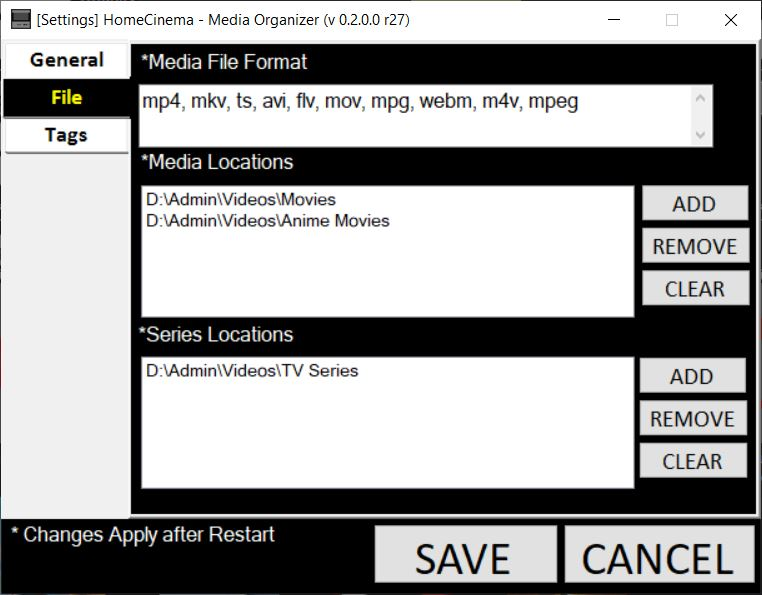
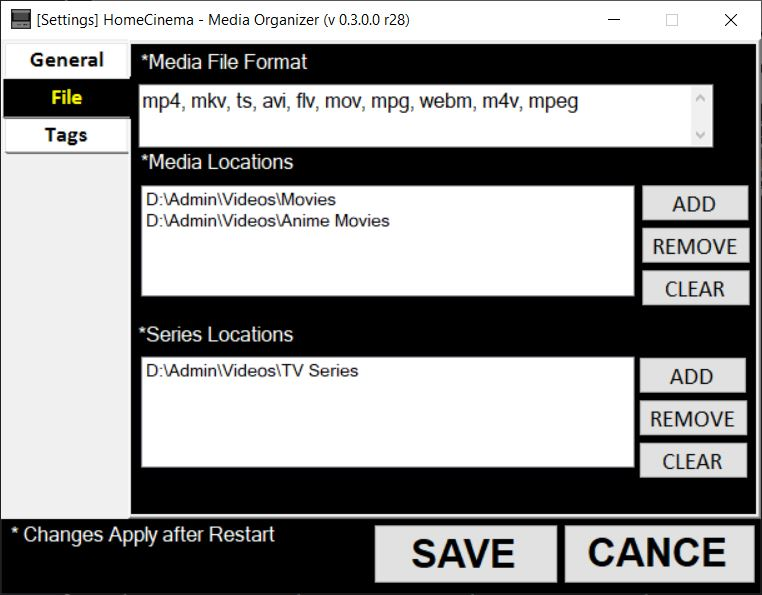
Updated to version 0.3

diff --git a/HomeCinema/Func/GlobalVars.cs b/HomeCinema/Func/GlobalVars.cs
@@ -42,7 +42,7 @@ namespace HomeCinema.Global
         // Variables ############################################################################################################
         public static string HOMECINEMA_NAME = Assembly.GetExecutingAssembly().GetCustomAttribute<AssemblyTitleAttribute>().Title;
         public static string HOMECINEMA_VERSION = Assembly.GetExecutingAssembly().GetName().Version.ToString();
-        public static int HOMECINEMA_BUILD = 27;
+        public static int HOMECINEMA_BUILD = 28;
 
         public static string SEARCHBOX_PLACEHOLDER = "Type your Search query here...";
 

diff --git a/HomeCinema/Properties/AssemblyInfo.cs b/HomeCinema/Properties/AssemblyInfo.cs
@@ -33,5 +33,5 @@ using System.Runtime.InteropServices;
 // You can specify all the values or you can default the Build and Revision Numbers
 // by using the '*' as shown below:
 // [assembly: AssemblyVersion("1.0.*")]
-[assembly: AssemblyVersion("0.2.0.0")]
-[assembly: AssemblyFileVersion("0.2.0.0")]
+[assembly: AssemblyVersion("0.3.0.0")]
+[assembly: AssemblyFileVersion("0.3.0.0")]

diff --git a/README.md b/README.md
@@ -2,12 +2,12 @@
 
 <img src="/data/v0.1.jpg"></img>
 
-**version:**	0.2.0.0 <br>
-**build:**		27
+**version:**	0.3.0.0 <br>
+**build:**		28
 
 ## Downloads
 
-**Windows 64 bit [Compressed ZIP]**: [Click to Download latest version](https://github.com/JerloPH/HomeCinema/releases/download/v0.2.0.0/HomeCinema-Windows.zip "Download, Extract and Open 'HomeCinema' Executable file") <br>
+**Windows 64 bit [Compressed ZIP]**: [Click to Download latest version](https://github.com/JerloPH/HomeCinema/releases/download/v0.3.0.0/HomeCinema-Windows.zip "Download, Extract and Open 'HomeCinema' Executable file") <br>
 
 **NOTE: This update breaks the old way that the App saves directories** <br>
 - After updating, open the App and find the folder where your movies are saved.
@@ -18,7 +18,7 @@
   
 ### Download Counts
 
-**Current:** &nbsp; [![](https://img.shields.io/github/downloads/JerloPH/HomeCinema/v0.2.0.0/total.svg)]() <br>
+**Current:** &nbsp; [![](https://img.shields.io/github/downloads/JerloPH/HomeCinema/v0.3.0.0/total.svg)]() <br>
 **Overall:** &nbsp; [![](https://img.shields.io/github/downloads/JerloPH/HomeCinema/total.svg)]()
 
 ## Requirements

diff --git a/VERSION_HISTORY.md b/VERSION_HISTORY.md
@@ -1,5 +1,28 @@
 # HomeCinema - Project History:
 
+## v0.3.0.0 ***build 28 - (22 February 2021 PHT)***
+### New Loading Form, and Improvements
+
+**[Windows 64-bit](https://github.com/JerloPH/HomeCinema/releases/download/v0.3.0.0/HomeCinema-Windows.zip "HomeCinema-Windows.zip")**
+
+[![](https://img.shields.io/github/downloads/JerloPH/HomeCinema/v0.3.0.0/total.svg)]() <br>
+
+### What's New?
+- REV: New Loading form.
+- REV: Show Loading form on Fetching data from TMDB, and Saving Metadata.
+- FIX: Playing media file for invalid movie ID.
+- FIX: Cannot view Movie Info for Invalid ID.
+
+### 'Under the Hood' changes
+- REV: Separate string array builder for directories.
+- REV: Delegate background tasks to loading form.
+- MINOR: Added pre-build event to delete **'lib'** subfolder.
+- MINOR: Append new entries to **'MovieResult_DoneInsert.Log'**, instead of replacing file every form load.
+- MINOR: Organized source files.
+- Code cleanups, and various refactors.
+- Removed un-used lines of code.
+****
+
 ## v0.2.0.0 ***build 27 - (30 January 2021 PHT)***
 ### Breaking Changes!
 

diff --git a/UNRELEASED.md b/UNRELEASED.md
@@ -1,5 +1,6 @@
 # Commits not released
 
+# Released on v0.3
 ### What's New?
 - REV: Remove entries that doesn't exist on the disk, during startup. [fca3696]
 - REV: New Loading form. [PR # 2](https://github.com/JerloPH/HomeCinema/pull/2)
